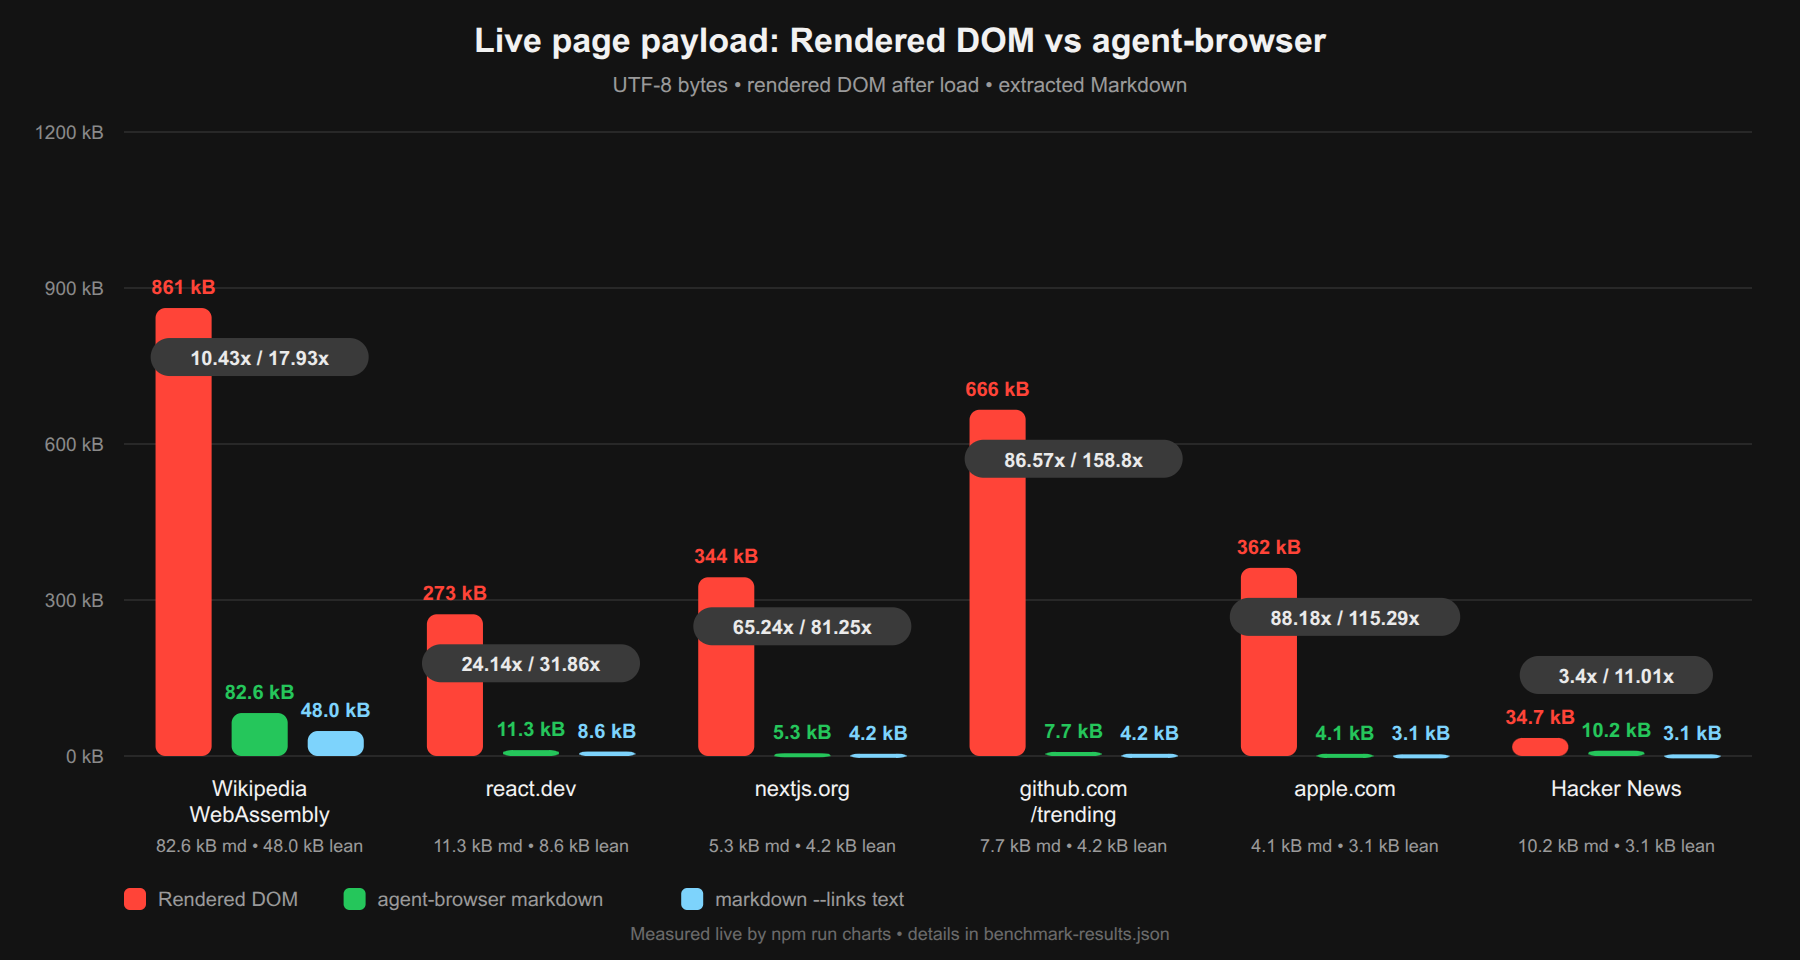
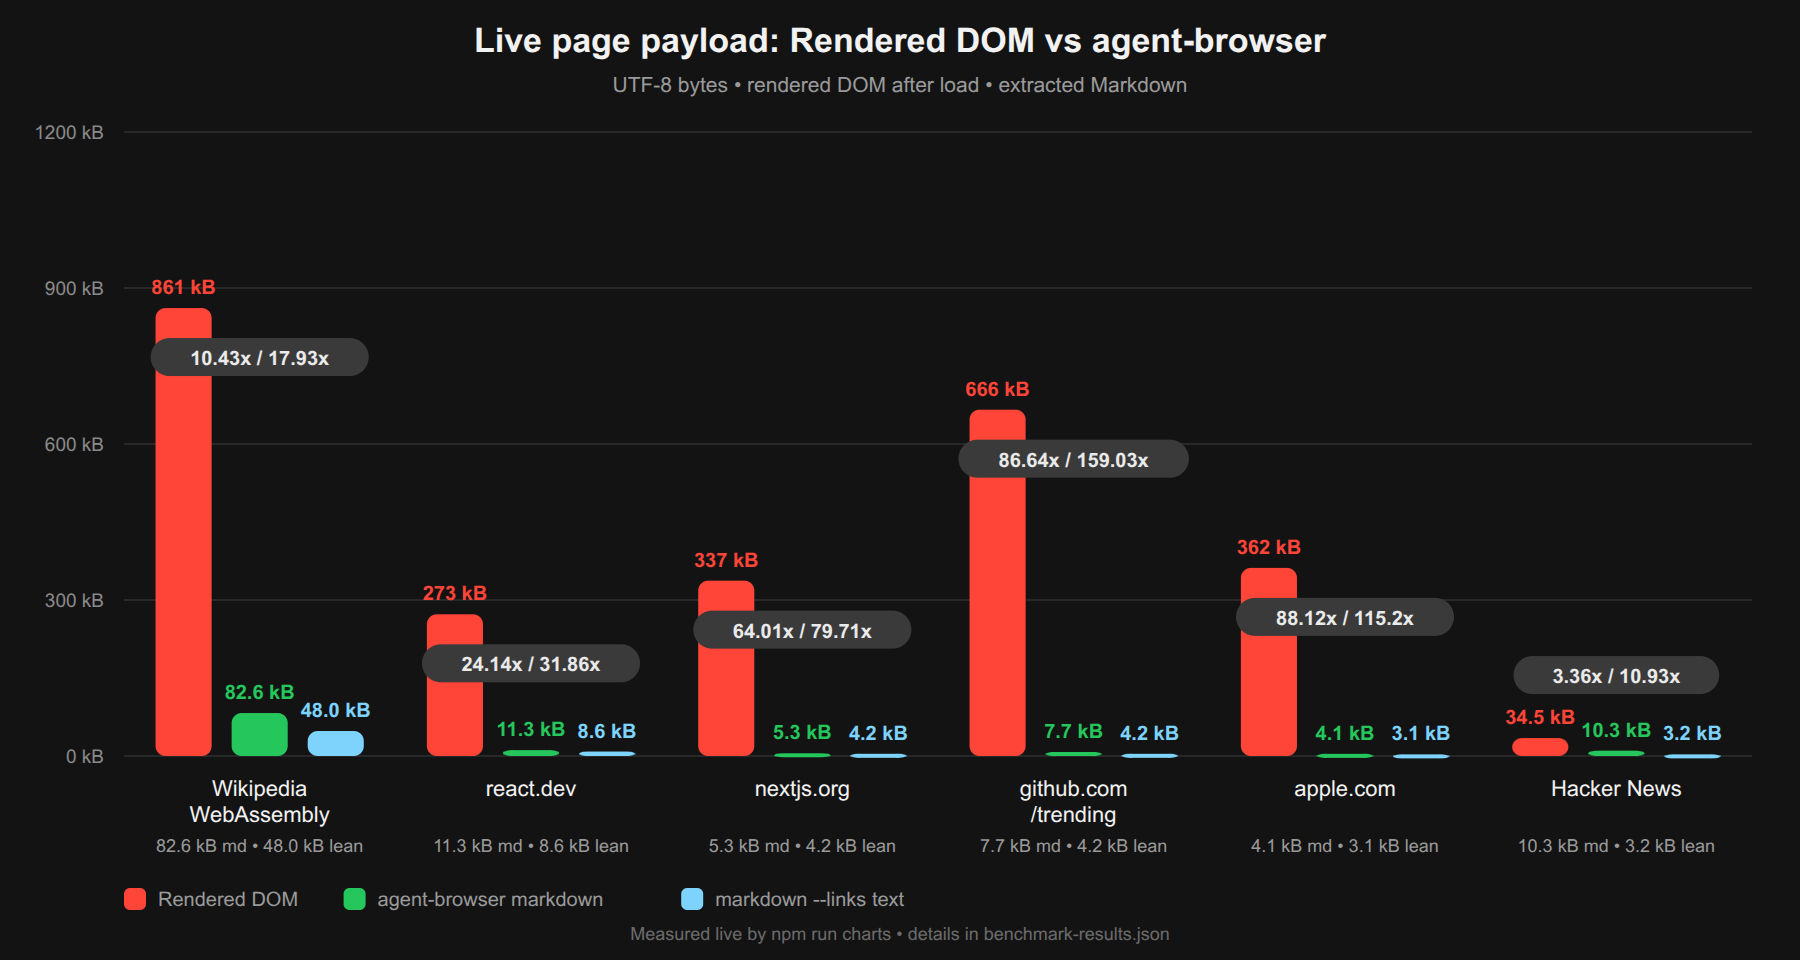
docs(benchmark): refresh clean-tree snapshot

diff --git a/README.md b/README.md
@@ -32,10 +32,10 @@ response. Reductions compare page-input tokens only.
 | --- | ---: | ---: | ---: | ---: |
 | `en.wikipedia.org/wiki/WebAssembly` | 861 kB / 282k tok | **82.6 kB / 21.9k tok** | 48.0 kB / 12.2k tok | 12.87× / 23.14× |
 | `react.dev` | 273 kB / 108k tok | **11.3 kB / 3.1k tok** | 8.6 kB / 1.9k tok | 34.73× / 57.23× |
-| `nextjs.org` | 344 kB / 127k tok | **5.3 kB / 1.2k tok** | 4.2 kB / 0.9k tok | 102.08× / 133.77× |
-| `github.com/trending` | 666 kB / 218k tok | **7.7 kB / 2.2k tok** | 4.2 kB / 1.1k tok | 100.86× / 200.25× |
-| `apple.com` | 362 kB / 143k tok | **4.1 kB / 1.2k tok** | 3.1 kB / 0.9k tok | 123.77× / 165.55× |
-| `news.ycombinator.com` | 34.7 kB / 11.7k tok | **10.2 kB / 3.4k tok** | 3.1 kB / 1.1k tok | 3.46× / 11× |
+| `nextjs.org` | 337 kB / 124k tok | **5.3 kB / 1.2k tok** | 4.2 kB / 0.9k tok | 100× / 131.05× |
+| `github.com/trending` | 666 kB / 218k tok | **7.7 kB / 2.2k tok** | 4.2 kB / 1.1k tok | 100.96× / 200.63× |
+| `apple.com` | 362 kB / 143k tok | **4.1 kB / 1.1k tok** | 3.1 kB / 0.9k tok | 124.4× / 166.69× |
+| `news.ycombinator.com` | 34.5 kB / 11.7k tok | **10.3 kB / 3.4k tok** | 3.2 kB / 1.1k tok | 3.42× / 10.86× |
 <!-- benchmark-table:end -->
 
 From a source checkout, regenerate both charts and this table's underlying
